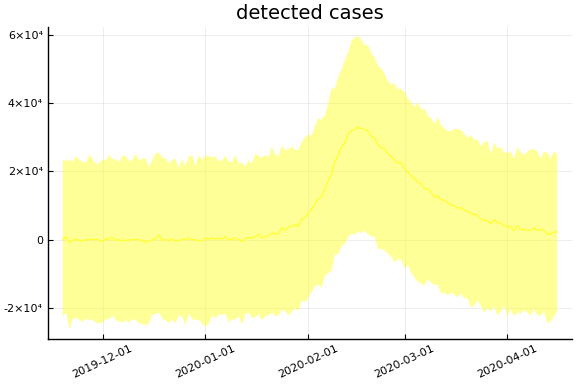
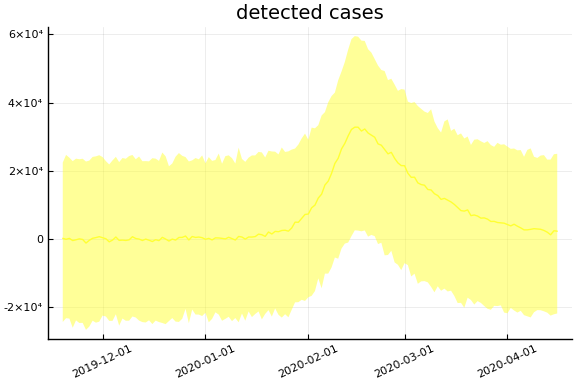
Deployed fc4118a with MkDocs version: 1.1

diff --git a/china/index.html b/china/index.html
@@ -154,18 +154,19 @@ covdf = covidjhudata();
 
 <h1 id="china">China<a class="headerlink" href="#china" title="Permanent link">&para;</a></h1>
 <pre><code class="julia">using Dates
-dayt0 = Dates.Date(&quot;2020-01-22&quot;) - Dates.Day(1)
-china = CountryData(covdf, &quot;China&quot;, 1)
+dayt0 = Dates.Date(&quot;2020-01-22&quot;) - Dates.Day(65)
+china = CountryData(covdf, &quot;China&quot;, 65)
 </code></pre>
 
-<pre><code>CovidSEIR.CountryData{Float64,Int64}(1.39273e9, [1, 2, 3, 4, 5, 6, 7, 8, 9,
- 10  …  69, 70, 71, 72, 73, 74, 75, 76, 77, 78], [17.0, 18.0, 26.0, 42.0, 5
-6.0, 82.0, 131.0, 133.0, 171.0, 213.0  …  3308.0, 3309.0, 3316.0, 3322.0, 3
-326.0, 3330.0, 3333.0, 3335.0, 3335.0, 3337.0], [28.0, 30.0, 36.0, 39.0, 49
-.0, 58.0, 101.0, 120.0, 135.0, 214.0  …  75923.0, 76206.0, 76405.0, 76565.0
-, 76760.0, 76946.0, 77207.0, 77310.0, 77410.0, 77567.0], [503.0, 595.0, 858
-.0, 1325.0, 1970.0, 2737.0, 5277.0, 5834.0, 7835.0, 9375.0  …  2967.0, 2764
-.0, 2640.0, 2545.0, 2425.0, 2267.0, 2062.0, 2020.0, 1973.0, 1905.0])
+<pre><code>CovidSEIR.CountryData{Float64,Int64}(1.39273e9, [65, 66, 67, 68, 69, 70, 71
+, 72, 73, 74  …  134, 135, 136, 137, 138, 139, 140, 141, 142, 143], [17.0, 
+18.0, 26.0, 42.0, 56.0, 82.0, 131.0, 133.0, 171.0, 213.0  …  3309.0, 3316.0
+, 3322.0, 3326.0, 3330.0, 3333.0, 3335.0, 3335.0, 3337.0, 3339.0], [28.0, 3
+0.0, 36.0, 39.0, 49.0, 58.0, 101.0, 120.0, 135.0, 214.0  …  76206.0, 76405.
+0, 76565.0, 76760.0, 76946.0, 77207.0, 77310.0, 77410.0, 77567.0, 77679.0],
+ [503.0, 595.0, 858.0, 1325.0, 1970.0, 2737.0, 5277.0, 5834.0, 7835.0, 9375
+.0  …  2764.0, 2640.0, 2545.0, 2425.0, 2267.0, 2062.0, 2020.0, 1973.0, 1905
+.0, 1865.0])
 </code></pre>
 <pre><code class="julia">using Turing
 mdl = CovidSEIR.TimeVarying.countrymodel(china)

diff --git a/index.html b/index.html
@@ -236,5 +236,5 @@
 
 <!--
 MkDocs version : 1.1
-Build Date UTC : 2020-04-10 03:43:16
+Build Date UTC : 2020-04-10 15:54:45
 -->
